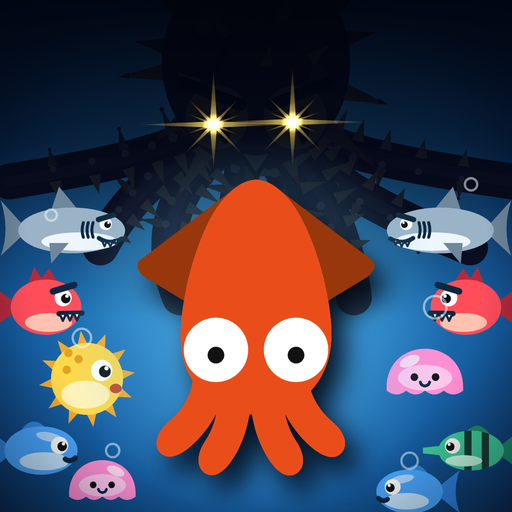
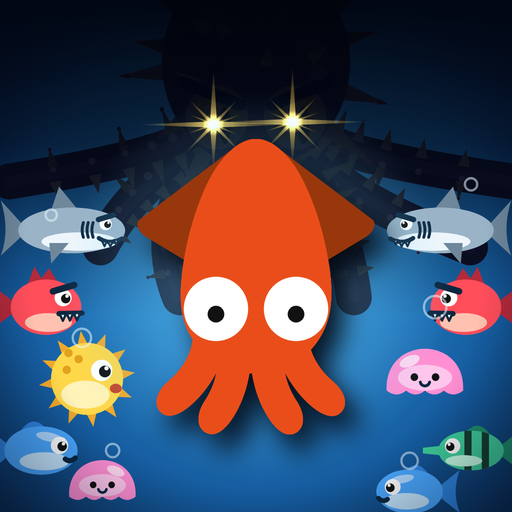
Icona: calamaro più in alto
Claude-Session: https://claude.ai/code/session_01Y3yqn3oYkLzQqwWk9HZaU5

Changed region(s): [[0.25, 0.25, 0.7812, 0.9688]]

diff --git a/sw.js b/sw.js
@@ -1,5 +1,5 @@
 // Fa funzionare SquidSwarm come app installata, anche senza connessione
-const CACHE='squidswarm-v3';
+const CACHE='squidswarm-v4';
 const FILES=['./','./index.html','./manifest.webmanifest','./icon-192.png','./icon-512.png'];
 self.addEventListener('install',e=>{e.waitUntil(caches.open(CACHE).then(c=>c.addAll(FILES)));self.skipWaiting();});
 self.addEventListener('activate',e=>{e.waitUntil(caches.keys().then(ks=>Promise.all(ks.filter(k=>k!==CACHE).map(k=>caches.delete(k)))));self.clients.claim();});
